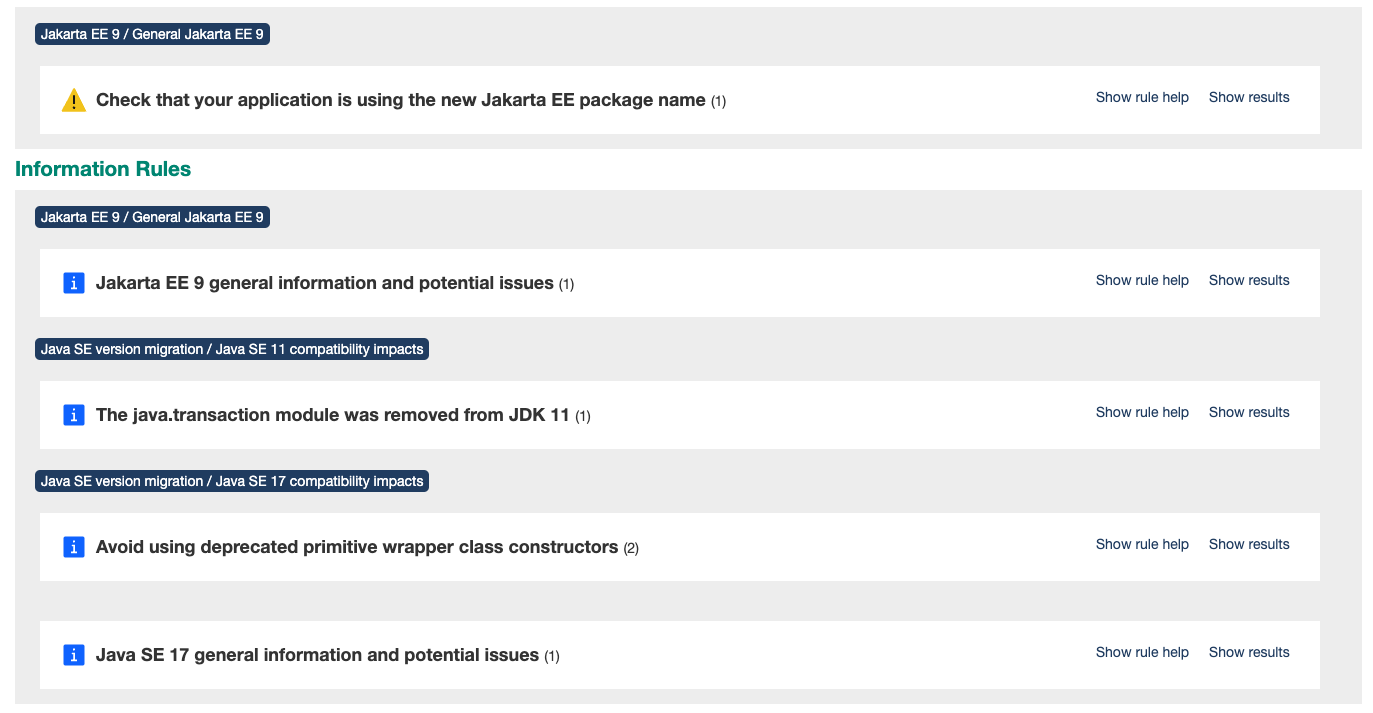
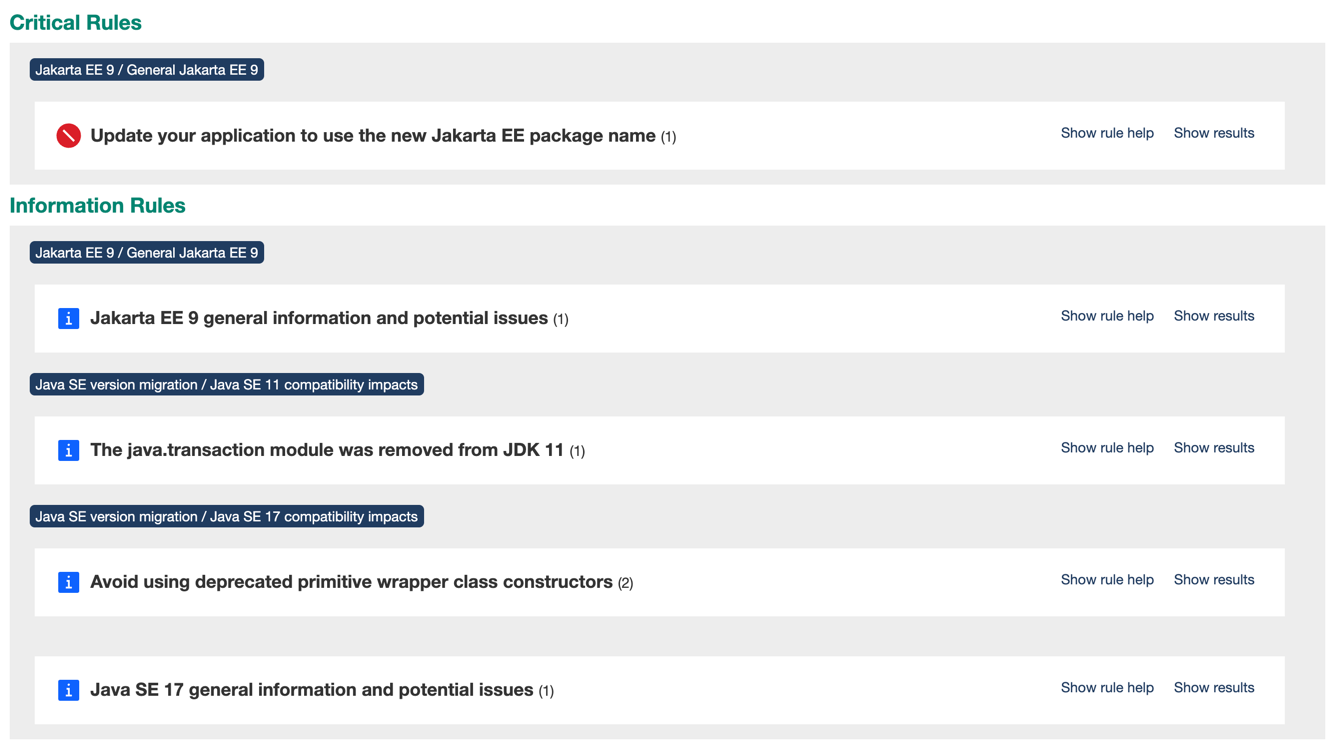
jakarta 9 updates

diff --git a/jakarta9/README.md b/jakarta9/README.md
@@ -1,5 +1,7 @@
 # Modernizing DefaultApplication to Jakarta EE 9.1
 
+Note: This article was updated to show use of the latest binary scanner v23.0.0.1.
+
 When we first [modernized DefaultApplication](../README.md), we moved a complex, traditional WebSphere Application Server application to Liberty. In this post, we will upgrade the same application to use Jakarta EE 9.1.
 
 Here is an outline of the step-by-step process we went through to do the modernization.
@@ -114,7 +116,7 @@ Take a look at the [server.xml](../modernized/DefaultApplication-ear/src/main/li
 
 Also, looking at the binary scanner migration report which scanned for differences between Java EE 8 and Jakarta EE 9, we are warned of the Jakarta EE package rename that is required. Java EE 8 and earlier APIs use `javax` as the root of the package name. Starting with Jakarta EE 9, API packages start with `jakarta`. See the migration report rule help for more information.
 
-![](./images/WarningRules.png)
+![](./images/criticalRules.png)
 
 This is a small application, and we could easily make the package name changes manually, but the [Eclipse Transformer](https://openliberty.io/blog/2021/03/17/eclipse-transformer.html) is highly recommended to make the code changes since there are some `javax` packages that remain in Java SE. Another cool feature of the Eclipse Transformer is that you can use it to modify your source code or your application binaries. We have used the binary feature to generate Jakarta test applications. You can use the binary feature to run a quick proof of concept for your application running on Jakarta. If you are running the Eclipse Transformer on your binaries, the [transformer-maven-plugin](https://github.com/eclipse/transformer/blob/main/maven-plugins/transformer-maven-plugin/README.md) provides a better way for running the transformer with your build process.
 
@@ -233,7 +235,7 @@ As one last check, let's build the EAR file and run the binary scanner against t
 
 ![](./images/MigrationReportJakarta.png)
 
-Two of the analysis results are gone after the changes are made since we have converted the javax.transaction to jakarta and we removed the deprecated Integer constructors. The remaining issues are general in nature and will always trigger with the targets I have selected.
+Three of the analysis results are gone after the changes are made since we converted javax packages to jakarta and we removed the deprecated Integer constructors, The remaining two issues are general in nature and will always trigger with the targets I have selected.
 
 Also, the technology report shows that the application is using Jakarta EE technologies. We are on the way with Jakarta 9.1. With Jakarta 10 right around the corner, we will revisit this application with Jakarta 10 soon!
 
